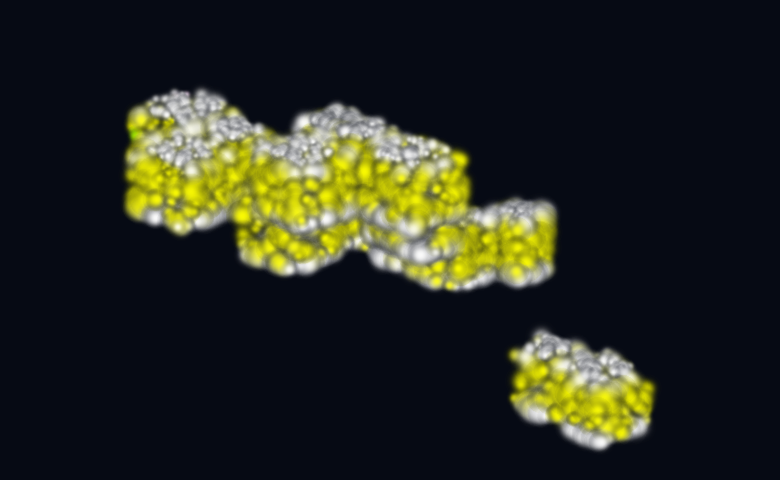
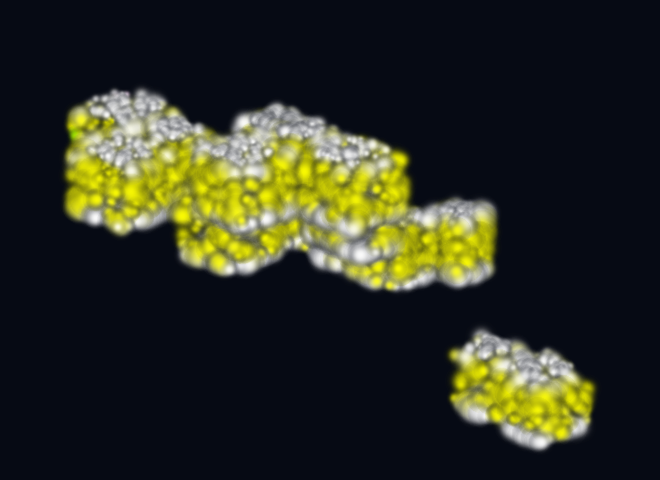
feat(examples): add robot RGB camera panel to escape-room hero GIF
Project 3DGS splats from the robot pose for a live camera view between the
2D topology map and the 3D sim, and rebalance the three-panel layout.

Changed region(s): [[0.0909, 0.1875, 0.5152, 0.5938], [0.5152, 0.2812, 0.7576, 0.625], [0.6364, 0.6875, 0.9091, 0.9375]]

diff --git a/examples/escape_room_camera.py b/examples/escape_room_camera.py
@@ -1,0 +1,156 @@
+"""First-person RGB camera view for the escape-room hero panel.
+
+Renders a pinhole projection of the same 3DGS splat cloud used in the 3D sim,
+from the robot pose and look direction along the active route segment.
+"""
+
+from __future__ import annotations
+
+import math
+from typing import Any
+
+import numpy as np
+from PIL import Image, ImageDraw, ImageFilter
+
+from escape_room_3dgs_map import sample_splats
+
+CAMERA_HEIGHT_M = 0.72
+FOV_RAD = 1.05
+SPLAT_CACHE: list[tuple[float, float, float, float, int, int, int]] | None = None
+
+
+def _splats(graph: Any) -> list[tuple[float, float, float, float, int, int, int]]:
+    global SPLAT_CACHE
+    if SPLAT_CACHE is None:
+        SPLAT_CACHE = sample_splats(graph)
+    return SPLAT_CACHE
+
+
+def _normalize(v: np.ndarray) -> np.ndarray:
+    n = float(np.linalg.norm(v))
+    if n < 1e-6:
+        return v
+    return v / n
+
+
+def _robot_pose(graph: Any, meta: dict) -> tuple[np.ndarray, np.ndarray]:
+    route = meta.get("route") or []
+    progress = float(meta.get("progress", 0.0))
+    if len(route) >= 2:
+        segment = min(int(progress), len(route) - 2)
+        local = max(0.0, min(1.0, progress - segment))
+        a = graph.get_node(route[segment])
+        b = graph.get_node(route[segment + 1])
+        fa = int(a.properties.get("floor", 1))
+        fb = int(b.properties.get("floor", 1))
+        za = (fa - 1) * 4.2
+        zb = (fb - 1) * 4.2
+        pos = np.array([
+            a.pose.x + (b.pose.x - a.pose.x) * local,
+            a.pose.y + (b.pose.y - a.pose.y) * local,
+            za + (zb - za) * local + CAMERA_HEIGHT_M,
+        ], dtype=np.float64)
+        ahead = np.array([b.pose.x, b.pose.y, zb + CAMERA_HEIGHT_M], dtype=np.float64)
+        forward = _normalize(ahead - pos)
+        return pos, forward
+
+    loc = meta.get("location") or (route[0] if route else "holding_cell")
+    node = graph.get_node(loc)
+    fl = int(node.properties.get("floor", 1))
+    z = (fl - 1) * 4.2 + CAMERA_HEIGHT_M
+    pos = np.array([node.pose.x, node.pose.y, z], dtype=np.float64)
+    forward = np.array([1.0, 0.0, 0.0], dtype=np.float64)
+    for edge in graph.edges():
+        if edge.source == loc:
+            tgt = graph.get_node(edge.target)
+            forward = _normalize(np.array([tgt.pose.x - node.pose.x, tgt.pose.y - node.pose.y, 0.0]))
+            break
+        if edge.target == loc:
+            src = graph.get_node(edge.source)
+            forward = _normalize(np.array([node.pose.x - src.pose.x, node.pose.y - src.pose.y, 0.0]))
+            break
+    return pos, forward
+
+
+def render_camera_view(
+    graph: Any,
+    meta: dict,
+    *,
+    width: int,
+    height: int,
+) -> Image.Image:
+    """Render robot RGB camera frame from 3DGS splats (RGBA)."""
+    eye, forward = _robot_pose(graph, meta)
+    world_up = np.array([0.0, 0.0, 1.0], dtype=np.float64)
+    right = _normalize(np.cross(forward, world_up))
+    if float(np.linalg.norm(right)) < 1e-4:
+        right = np.array([0.0, 1.0, 0.0], dtype=np.float64)
+    up = _normalize(np.cross(right, forward))
+
+    focal = width / (2.0 * math.tan(FOV_RAD / 2.0))
+    projected: list[tuple[float, float, float, float, int, int, int]] = []
+
+    splats = _splats(graph)
+    for idx, (x, y, z, _r_px, r, g, b) in enumerate(splats):
+        if idx % 2 == 1:
+            continue
+        rel = np.array([x, y, z], dtype=np.float64) - eye
+        cx = float(np.dot(rel, right))
+        cy = float(np.dot(rel, up))
+        cz = float(np.dot(rel, forward))
+        if cz < 0.25:
+            continue
+        sx = width / 2 + focal * cx / cz
+        sy = height / 2 - focal * cy / cz
+        if sx < -40 or sx > width + 40 or sy < -40 or sy > height + 40:
+            continue
+        radius = max(2.5, min(28.0, 0.55 * focal / cz))
+        projected.append((cz, sx, sy, radius, r, g, b))
+
+    base = Image.new("RGBA", (width, height), (8, 10, 14, 255))
+    layer = Image.new("RGBA", (width, height), (0, 0, 0, 0))
+    stamp = Image.new("RGBA", (24, 24), (0, 0, 0, 0))
+    px = stamp.load()
+    for iy in range(24):
+        for ix in range(24):
+            d2 = ((ix - 11.5) ** 2 + (iy - 11.5) ** 2) / (10.5 * 10.5)
+            if d2 <= 1.0:
+                px[ix, iy] = (255, 255, 255, int(210 * math.exp(-d2 * 2.0)))
+
+    draw = ImageDraw.Draw(layer, "RGBA")
+    for cz, sx, sy, radius, r, g, b in sorted(projected, key=lambda s: s[0], reverse=True):
+        alpha = Image.new("RGBA", (24, 24), (r, g, b, 0))
+        alpha.putalpha(stamp.split()[3])
+        size = max(3, int(radius * 2))
+        blob = alpha.resize((size, size), Image.Resampling.LANCZOS)
+        layer.paste(blob, (int(sx - size / 2), int(sy - size / 2)), blob)
+
+    out = Image.alpha_composite(base, layer.filter(ImageFilter.GaussianBlur(radius=0.35)))
+    out = Image.alpha_composite(out, layer)
+    out = out.filter(ImageFilter.GaussianBlur(radius=0.7))
+
+    loc = meta.get("location") or "holding_cell"
+    node = graph.get_node(loc) if graph.has_node(loc) else None
+    brightness = 1.0
+    if loc == "dark_corridor":
+        brightness = 0.32
+    elif node and node.type == "corridor":
+        brightness = 0.78
+    if brightness < 1.0:
+        dim = Image.new("RGBA", (width, height), (0, 0, 0, int((1.0 - brightness) * 180)))
+        out = Image.alpha_composite(out, dim)
+
+    # vignette
+    vig = Image.new("L", (width, height), 0)
+    vdraw = ImageDraw.Draw(vig)
+    vdraw.ellipse((-width * 0.15, -height * 0.1, width * 1.15, height * 1.1), fill=220)
+    vig = vig.filter(ImageFilter.GaussianBlur(radius=min(width, height) // 5))
+    out = Image.composite(
+        Image.new("RGBA", (width, height), (0, 0, 0, 255)),
+        out,
+        Image.eval(vig, lambda p: 255 - p),
+    )
+
+    hud = ImageDraw.Draw(out, "RGBA")
+    hud.rectangle((0, 0, width, 26), fill=(9, 17, 31, 230))
+    return out

diff --git a/scripts/foxglove_hero/render_escape_room_hero.py b/scripts/foxglove_hero/render_escape_room_hero.py
@@ -20,6 +20,7 @@ sys.path.insert(0, str(ROOT))
 sys.path.insert(0, str(ROOT / "examples"))
 
 from escape_room_3dgs_map import load_map  # noqa: E402
+from escape_room_camera import render_camera_view  # noqa: E402
 from escape_room_meshes import IsoView, all_meshes, fit_iso_view, iso_project  # noqa: E402
 from robot_escape_room import POWER_ITEM, UNPOWERED_TYPES  # noqa: E402
 from semantic_toponav.graph.serialization import load_graph  # noqa: E402
@@ -27,7 +28,7 @@ from semantic_toponav.graph.serialization import load_graph  # noqa: E402
 GRAPH_PATH = ROOT / "examples/robot_escape_room.yaml"
 TIMELINE_PATH = ROOT / "docs/foxglove/robot_escape_room_timeline.json"
 
-MAP_W, SIM_W = 400, 780
+MAP_W, CAM_W, SIM_W = 280, 340, 660
 BODY_H = 480
 TOP_H, BOT_H = 56, 64
 FLOOR_HEIGHT_M = 4.2
@@ -227,6 +228,29 @@ def _render_map(graph, meta: dict) -> Image.Image:
     return panel
 
 
+def _render_camera(graph, meta: dict) -> Image.Image:
+    panel = render_camera_view(graph, meta, width=CAM_W, height=BODY_H)
+    draw = ImageDraw.Draw(panel, "RGBA")
+    draw.text((14, 6), "robot camera · rgb", font=FONT_PANEL, fill=TEXT)
+
+    loc = meta.get("location") or "holding_cell"
+    if graph.has_node(loc):
+        node = graph.get_node(loc)
+        fl = int(node.properties.get("floor", 1))
+        floor_tag = FLOOR_LABEL.get(fl, str(fl))
+        draw.text((CAM_W - 14, 6), f"{node.label[:16]} · {floor_tag}", font=FONT_SM, fill=MUTED, anchor="ra")
+
+    # REC badge + crosshair
+    draw.ellipse((16, BODY_H - 28, 28, BODY_H - 16), fill=(239, 68, 68))
+    draw.text((34, BODY_H - 30), "REC", font=FONT_SM, fill=(252, 165, 165))
+    cx, cy = CAM_W // 2, BODY_H // 2 + 8
+    draw.line([(cx - 14, cy), (cx - 4, cy)], fill=(148, 163, 184, 180), width=1)
+    draw.line([(cx + 4, cy), (cx + 14, cy)], fill=(148, 163, 184, 180), width=1)
+    draw.line([(cx, cy - 14), (cx, cy - 4)], fill=(148, 163, 184, 180), width=1)
+    draw.line([(cx, cy + 4), (cx, cy + 14)], fill=(148, 163, 184, 180), width=1)
+    return panel
+
+
 _3DGS_BG: Image.Image | None = None
 
 
@@ -331,12 +355,14 @@ def _legend_chip(draw, x, y, color, label):
 
 
 def render_frame(graph, meta: dict) -> Image.Image:
-    total_w = MAP_W + SIM_W
+    total_w = MAP_W + CAM_W + SIM_W
     body = Image.new("RGB", (total_w, BODY_H), BG)
     body.paste(_render_map(graph, meta).convert("RGB"), (0, 0))
-    body.paste(_render_sim(graph, meta).convert("RGB"), (MAP_W, 0))
+    body.paste(_render_camera(graph, meta).convert("RGB"), (MAP_W, 0))
+    body.paste(_render_sim(graph, meta).convert("RGB"), (MAP_W + CAM_W, 0))
     draw_body = ImageDraw.Draw(body)
     draw_body.line([(MAP_W, 0), (MAP_W, BODY_H)], fill=(51, 65, 85), width=3)
+    draw_body.line([(MAP_W + CAM_W, 0), (MAP_W + CAM_W, BODY_H)], fill=(51, 65, 85), width=3)
 
     out = Image.new("RGB", (total_w, BODY_H + TOP_H + BOT_H), BG)
     out.paste(body, (0, TOP_H))
@@ -347,7 +373,7 @@ def render_frame(graph, meta: dict) -> Image.Image:
     draw.line([(0, BODY_H + TOP_H), (total_w, BODY_H + TOP_H)], fill=(51, 65, 85), width=2)
 
     draw.text((18, 14), "robot-escape-room", font=FONT_TITLE, fill=TEXT)
-    draw.text((300, 18), "2D topo + 3DGS sim · real A* each frame", font=FONT_LEGEND, fill=MUTED)
+    draw.text((300, 18), "2D topo + camera + 3DGS sim · real A* each frame", font=FONT_LEGEND, fill=MUTED)
     _round_rect(draw, (total_w - 108, 12, total_w - 18, 42), 14, (6, 78, 59), (45, 212, 191), 1)
     draw.text((total_w - 63, 18), "live", font=FONT_BADGE, fill=(167, 243, 208), anchor="ma")
 

diff --git a/examples/escape_room_3dgs_map.py b/examples/escape_room_3dgs_map.py
@@ -30,8 +30,8 @@ from escape_room_meshes import (
 HERE = Path(__file__).parent
 MAP_PATH = MESH_DIR / "escape_room_3dgs_map.png"
 
-# Must match scripts/foxglove_hero/render_escape_room_hero.py
-SIM_W, BODY_H = 780, 480
+# Must match scripts/foxglove_hero/render_escape_room_hero.py (SIM_W)
+SIM_W, BODY_H = 660, 480
 SPLAT_SEED = 42
 
 

diff --git a/examples/meshes/escape_room/README.md b/examples/meshes/escape_room/README.md
@@ -37,6 +37,9 @@ PYTHONPATH=. python3 examples/generate_escape_room_3dgs_map.py
 
 Outputs `escape_room_3dgs_map.png` (isometric splats aligned to room meshes).
 
+Robot RGB camera frames for the hero GIF come from the same splat cloud via
+`examples/escape_room_camera.py`.
+
 ## Gazebo / Foxglove
 
 The MCAP exporter (`export_escape_room_foxglove_mcap.py`) and README hero